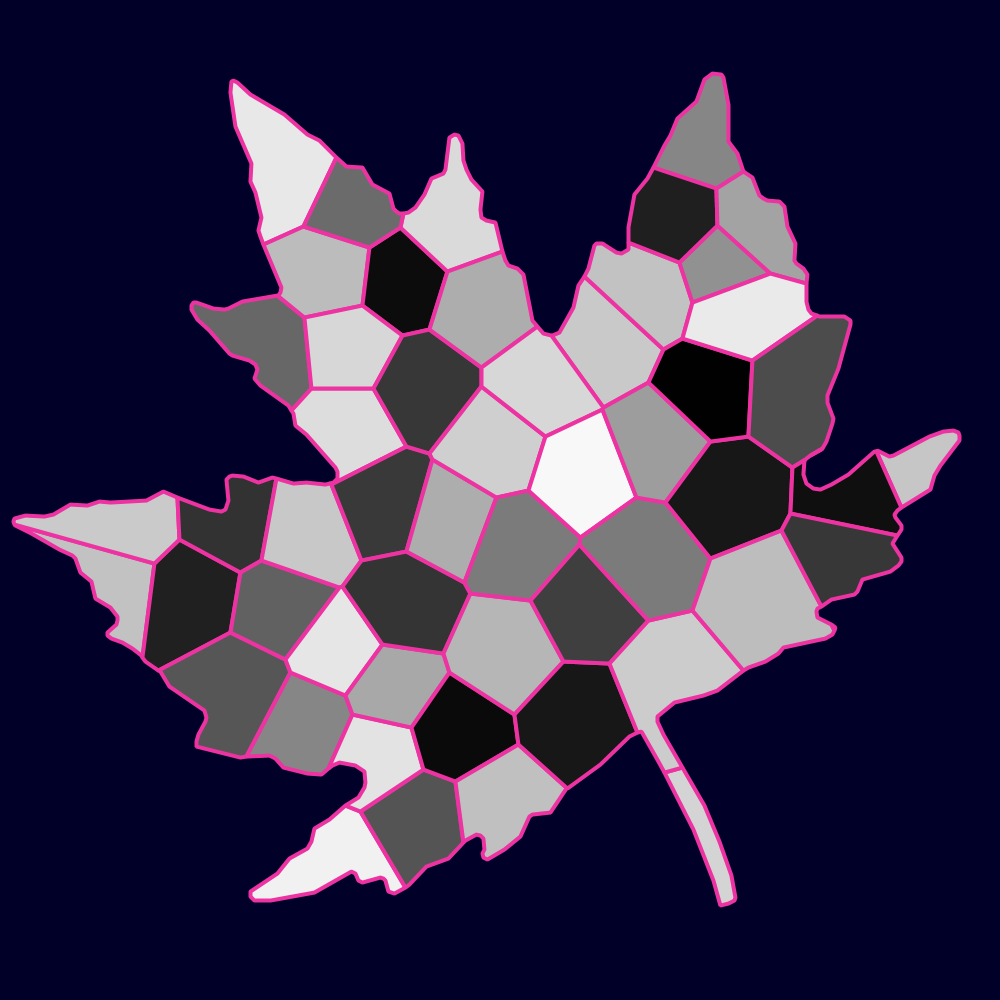
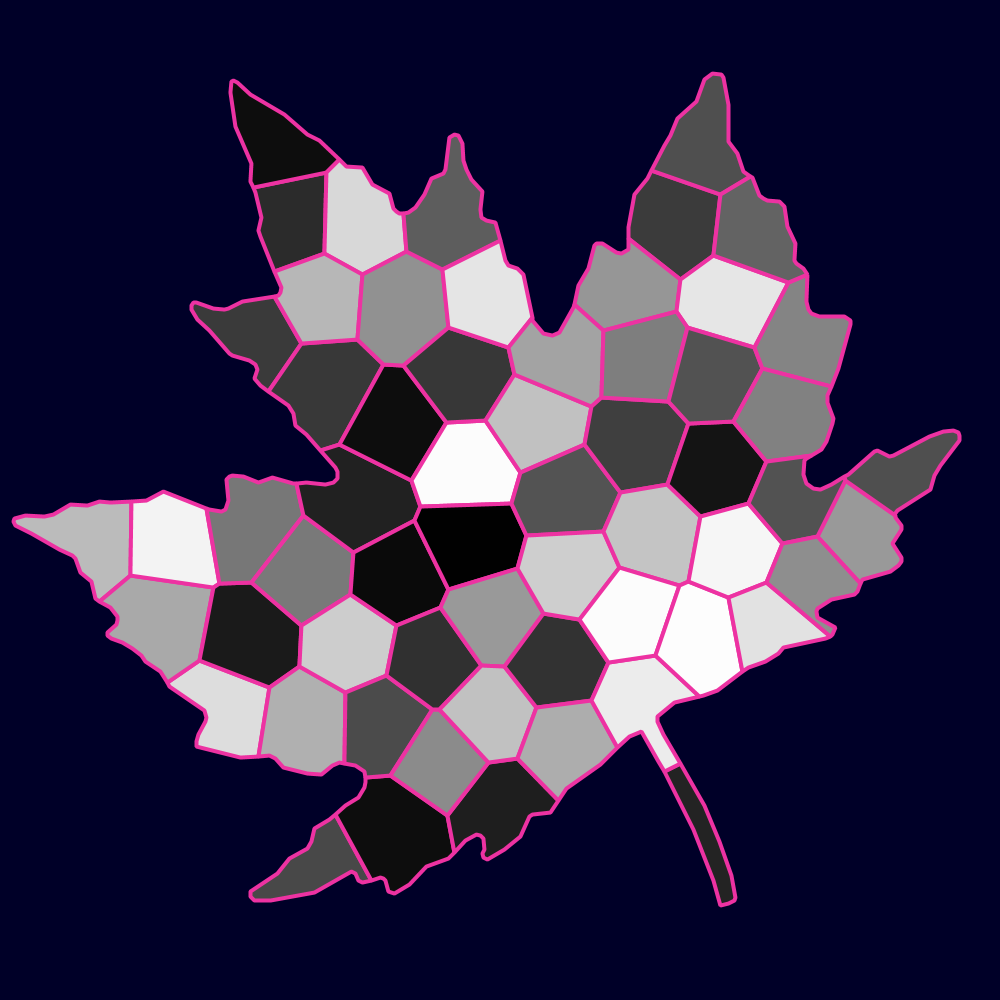
add precision arg to equalParition

diff --git a/src/main/java/micycle/pgs/PGS_Processing.java b/src/main/java/micycle/pgs/PGS_Processing.java
@@ -50,7 +50,6 @@ import org.tinfour.common.Vertex;
 import org.tinfour.standard.IncrementalTin;
 import org.tinfour.utils.TriangleCollector;
 
-import de.incentergy.geometry.PolygonSplitter;
 import de.incentergy.geometry.impl.RandomPolygonSplitter;
 import micycle.balaban.BalabanSolver;
 import micycle.balaban.Point;
@@ -784,17 +783,24 @@ public final class PGS_Processing {
 	 * <p>
 	 * This method produces a voronoi-like output.
 	 * 
-	 * @param shape a polygonal (non-group, no holes) shape
-	 * @param parts number of roughly equal area partitons to create
-	 * @return a GROUP PShape, where each child shape is some partition of the
-	 *         original
+	 * @param shape   a polygonal (non-group, no holes) shape
+	 * @param parts   number of roughly equal area partitons to create
+	 * @param precise whether to use a subroutine that partitions the shape into
+	 *                more precisely equal partitions. The tradeoff here is
+	 *                computation time vs partition quality
+	 * @return a GROUP PShape, whose child shapes are partitions of the original
 	 * @since 1.2.1
 	 */
-	public static PShape equalPartition(final PShape shape, final int parts) {
+	public static PShape equalPartition(final PShape shape, final int parts, boolean precise) {
 		final Geometry g = fromPShape(shape);
 		if (g.getGeometryType().equals(Geometry.TYPENAME_POLYGON)) {
-			PolygonSplitter splitter = new RandomPolygonSplitter();
-			List<? extends Geometry> partitions = splitter.split((Polygon) g, parts);
+			RandomPolygonSplitter splitter = new RandomPolygonSplitter();
+			List<? extends Geometry> partitions;
+			if (precise) {
+				partitions = splitter.split((Polygon) g, parts, 10000, 3);
+			} else {
+				partitions = splitter.split((Polygon) g, parts, 2000, 5);
+			}
 			return toPShape(partitions);
 		}
 		else {

diff --git a/src/main/java/micycle/pgs/commons/SeededRandomPointsInGridBuilder.java b/src/main/java/micycle/pgs/commons/SeededRandomPointsInGridBuilder.java
@@ -11,8 +11,8 @@ import org.locationtech.jts.shape.random.RandomPointsInGridBuilder;
 /**
  * An extension to the
  * {@link org.locationtech.jts.shape.random.RandomPointsInGridBuilder
- * RandomPointsInGridBuilder} class that accepts a random seed, allowed
- * repeatable outputs.
+ * RandomPointsInGridBuilder} class that accepts a random seed for repeatable
+ * outputs.
  * 
  * @author Michael Carleton
  *
